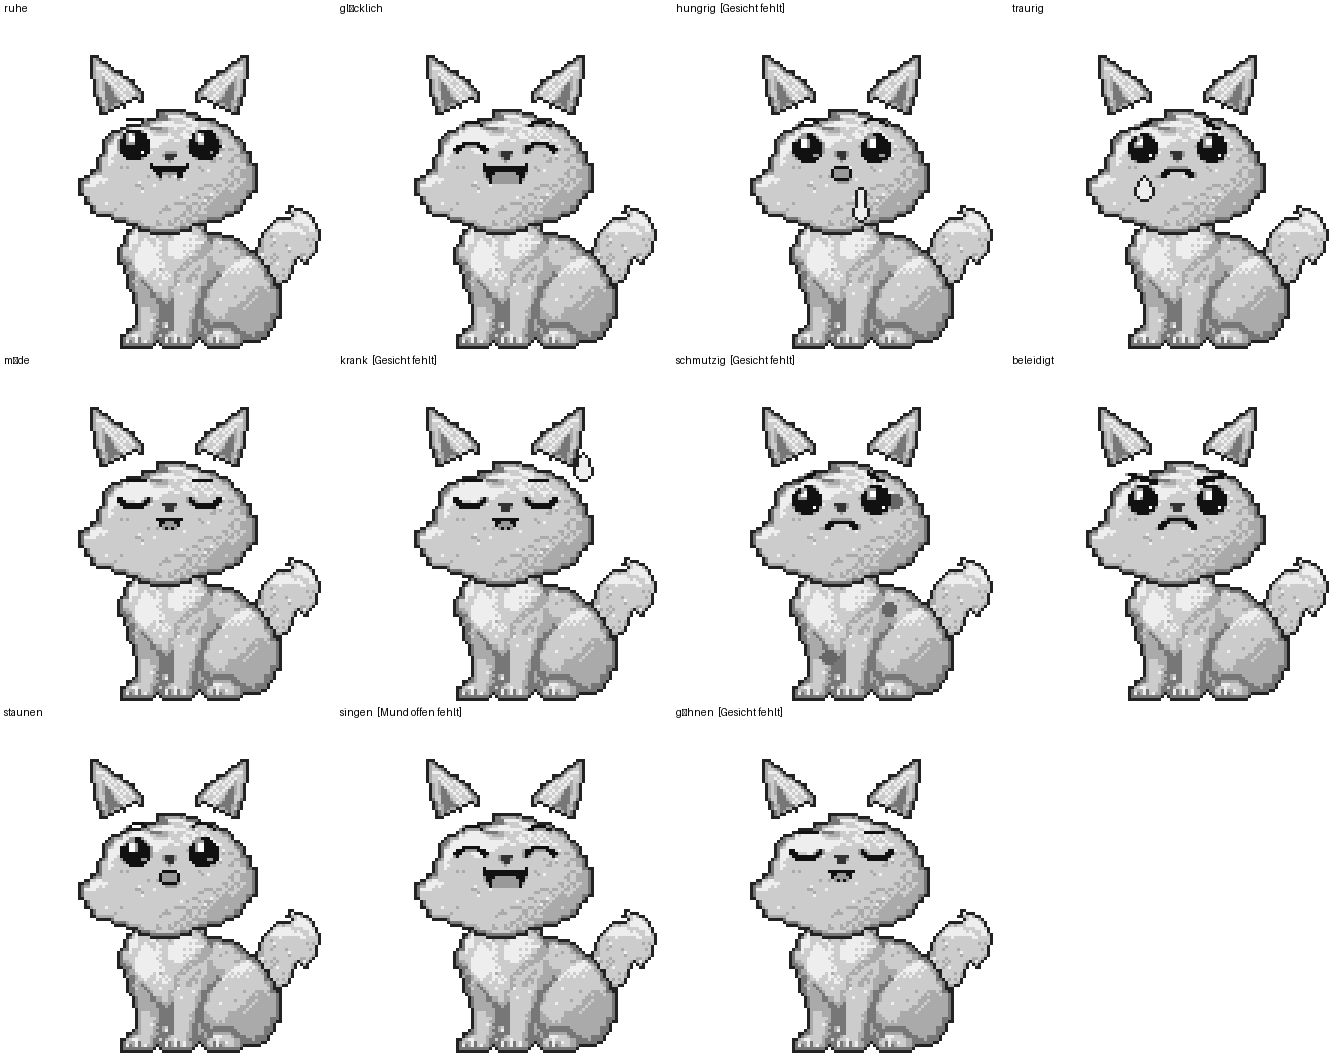
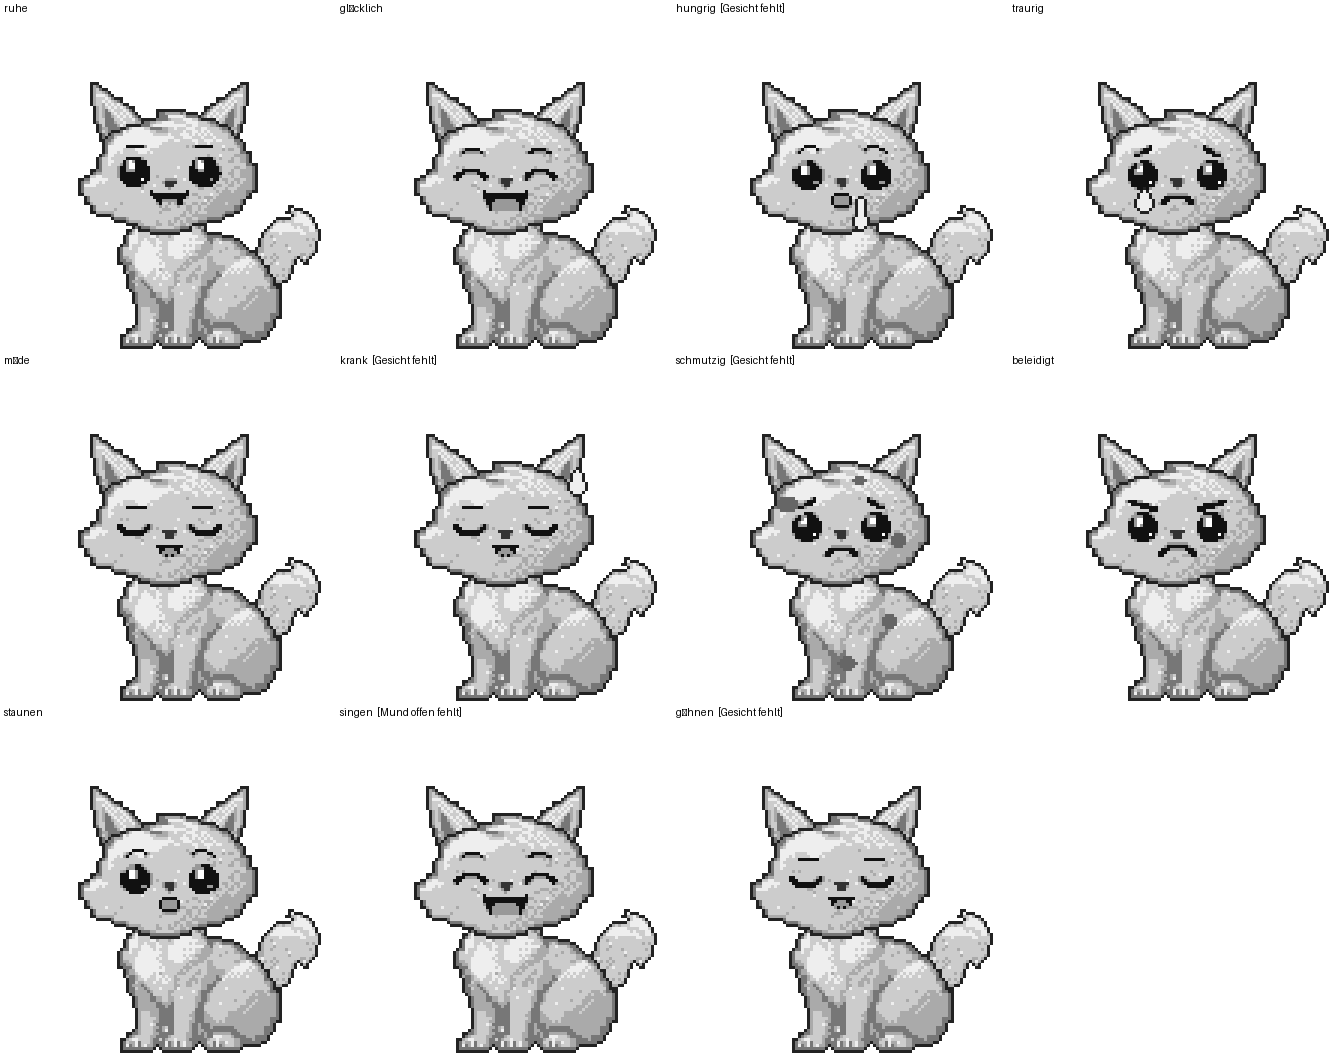
Bausatz: Gefuehle auf aktuelle Anordnung, Schablonen und Prompt fuer kleine Aufsaetze
Claude-Session: https://claude.ai/code/session_01X43J6dzQtUUHUsjwp3UbdM

diff --git a/entwuerfe/bausatz-test/formen.py b/entwuerfe/bausatz-test/formen.py
@@ -24,7 +24,7 @@ def datei(art, form, bevorzugt=None):
 def raster(p): return np.array(Image.open(p).convert('RGB'))[::Z, ::Z, 0]
 
 def baue_form(koerper='sitzend', kopf='3-4', ohren='spitz', schwanz='buschig', gesicht='freundlich',
-              fell=204, muster=None, kopf_ueber=None, merkmale=()):
+              fell=204, muster=None, kopf_ueber=None, merkmale=(), aufsaetze=()):
     kf, hf = L.KOERPER_FORMEN[koerper], L.KOPF_FORMEN[kopf]
     khx, khy = hf['hals']
     if kopf_ueber is None:
@@ -111,11 +111,34 @@ def baue_form(koerper='sitzend', kopf='3-4', ohren='spitz', schwanz='buschig', g
         m, d = muster_maske(muster)
         ok = m & c.a & (c.g >= 85) & (c.g < 250)
         c.g[ok] = np.clip(np.round((c.g[ok] + d) / 17) * 17, 0, 255)
+    geo = geometrie(koerper, kopf, kopf_ueber)
+    mx, my = geo['mx'], geo['my']
+    ohr_r = (kx + hf['ohr_r'][0] - khx, ky + hf['ohr_r'][1] - khy)
+    def aufsatz(name, ziel, spiegeln=False, rl=None):
+        t = lade_teil('aufsatz', name)
+        if t is not None: c.teil(t[0], t[1], ziel, rl or {34: 34, 119: 119, 170: 170, 204: 204, 238: 238}, spiegeln=spiegeln)
+    if 'augenmaske' in aufsaetze: aufsatz('augenmaske', (mx, my - 4))
     if gesicht:
         t = lade_teil('gesicht', gesicht)
         if t is not None:
             c.teil(t[0], t[1], (kx + hf['gesicht'][0] - khx, ky + hf['gesicht'][1] - khy), {34: 17, 119: 51, 170: 102, 204: 153, 238: 255})
+    if 'backentasche' in aufsaetze:
+        aufsatz('backentasche', (mx - 17, my + 7), rl=r)
+        aufsatz('backentasche', (W - 1 - (mx + 17), my + 7), spiegeln=True, rl=r)
+    if 'backenblitz' in aufsaetze:
+        aufsatz('backenblitz', (mx - 17, my + 6)); aufsatz('backenblitz', (W - 1 - (mx + 17), my + 6), spiegeln=True)
+    if 'halsband' in aufsaetze: aufsatz('halsband', (kx - 2, ky + 3))
+    if 'gloeckchen' in aufsaetze: aufsatz('gloeckchen', (kx - 4, ky + 5))
+    if 'schleife' in aufsaetze: aufsatz('schleife', (ohr_r[0] - 2, ohr_r[1] + 1))
     return c
+
+def geometrie(koerper='sitzend', kopf='3-4', kopf_ueber=None):
+    """Wichtige Punkte auf der Leinwand: Kopf-Hals (kx, ky) und Gesichtsmitte (mx, my)."""
+    kf, hf = L.KOERPER_FORMEN[koerper], L.KOPF_FORMEN[kopf]
+    if kopf_ueber is None: kopf_ueber = KOPF_UEBER_STANDARD - KOPF_TIEFER.get(kopf, 0)
+    zy = BODEN - (kf['groesse'][1] - 1) + kf['hals'][1]
+    kx, ky = 56, zy - kopf_ueber
+    return dict(kx=kx, ky=ky, mx=kx + hf['gesicht'][0] - hf['hals'][0], my=ky + hf['gesicht'][1] - hf['hals'][1])
 
 KOERPER = ['sitzend', 'rundlich', 'schlank', 'kraeftig']
 KOEPFE = ['3-4', 'klein-rund', 'breit']

diff --git a/entwuerfe/bausatz-test/emotionen3.py b/entwuerfe/bausatz-test/emotionen3.py
@@ -5,7 +5,8 @@ Aufruf: python3 emotionen3.py -> pruefbogen-emotionen-basis3.png
 import numpy as np
 from PIL import Image, ImageDraw
 import basis3
-from basis3 import W, H, HIER, baue
+from basis3 import W, H, HIER
+from formen import baue_form, geometrie
 
 Y, X = np.mgrid[0:H, 0:W]
 def ell(cx, cy, rx, ry): return ((X - cx) / rx) ** 2 + ((Y - cy) / ry) ** 2 <= 1
@@ -21,18 +22,20 @@ def tropfen(c, cx, cy, h=6):
     t |= ell(cx, cy, 2.6, 2.6)
     zeichne(c, t)
 
-def schweiss(c): tropfen(c, 82, 34)
-def traene(c): tropfen(c, 45, 58, 5)
-def sabber(c):
-    m = (X >= 62) & (X <= 63) & (Y >= 58) & (Y <= 64) | ell(62.5, 65, 2.2, 2.6)
+def schweiss(c, g): tropfen(c, g['mx'] + 24, g['my'] - 16)
+def traene(c, g): tropfen(c, g['mx'] - 11, g['my'] + 7, 5)
+def sabber(c, g):
+    x0, y0 = g['mx'] + 6, g['my'] + 6
+    m = (X >= x0) & (X <= x0 + 1) & (Y >= y0) & (Y <= y0 + 6) | ell(x0 + 0.5, y0 + 7, 2.2, 2.6)
     zeichne(c, m)
-def schmutz(c):
+def schmutz(c, g):
     m = np.zeros((H, W), bool)
-    for cx, cy, r in [(40, 36, 3.4), (74, 44, 2.6), (60, 28, 2.2), (30, 90, 3.6), (52, 96, 3), (72, 80, 2.6)]: m |= ell(cx, cy, r, r * .85)
+    for dx, dy, r in [(-18, -10, 3.4), (19, 2, 2.6), (6, -18, 2.2)]: m |= ell(g['mx'] + dx, g['my'] + dy, r, r * .85)
+    for cx, cy, r in [(40, 90, 3.6), (58, 98, 3), (72, 84, 2.6)]: m |= ell(cx, cy, r, r * .85)
     m &= c.a & (c.g > 100)
     setze(c, m, 102)
-def zzz(c):
-    for x0, y0, s in [(86, 30, 5), (90, 22, 6), (94, 12, 7)]:
+def zzz(c, g):
+    for x0, y0, s in [(g['mx'] + 28, g['my'] - 22, 5), (g['mx'] + 33, g['my'] - 30, 6)]:
         for (ax, ay, bx, by) in [(x0, y0, x0 + s, y0), (x0 + s, y0, x0, y0 + s), (x0, y0 + s, x0 + s, y0 + s)]:
             n = max(abs(bx - ax), abs(by - ay)) + 1
             for t in np.linspace(0, 1, n):
@@ -50,8 +53,9 @@ if __name__ == '__main__':
     rows = (len(EMOTIONEN) + cols - 1) // cols
     out = Image.new('RGB', (cols * W * z, rows * (H * z + 16)), 'white'); d = ImageDraw.Draw(out)
     for k, (n, g, eff, hin) in enumerate(EMOTIONEN):
-        c = baue(2, 2, ohren='spitz', schwanz='buschig', gesicht=g)
-        for e in eff: e(c)
+        geo = geometrie('sitzend', '3-4')
+        c = baue_form('sitzend', '3-4', ohren='spitz', schwanz='buschig', gesicht=g)
+        for e in eff: e(c, geo)
         x, y = (k % cols) * W * z, (k // cols) * (H * z + 16)
         d.text((x + 4, y + 2), n + (f'  [{hin}]' if hin else ''), fill='black')
         out.paste(c.bild(255, z), (x, y + 16))

diff --git a/entwuerfe/bausatz-test/schablonen_basis.py b/entwuerfe/bausatz-test/schablonen_basis.py
@@ -62,4 +62,15 @@ schablone('schablone-merkmal-stacheln.png', 48, 32, [((6, 26), 'Rücken', ROT)],
 schablone('schablone-merkmal-panzer.png', 56, 44, [((6, 40), 'Rücken', ROT)], 'Panzer 56x44',
           [('linie', [(0, 40), (28, 42), (55, 43)], 'Unterkante liegt auf dem Rücken')])
 schablone('schablone-merkmal-fluegel.png', 56, 56, [((6, 50), 'Schulter', ROT)], 'Fluegel 56x56')
+# Kleine Aufsätze (27.11.)
+AUFSAETZE = {  # Name: (Raster, Ansatz, Beschriftung, Hilfsform)
+    'schleife':     ((24, 20), (12, 16), 'Schleife 24x20', None),
+    'gloeckchen':   ((16, 20), (8, 2),   'Gloeckchen 16x20', None),
+    'halsband':     ((44, 14), (22, 3),  'Halsband 44x14', None),
+    'backentasche': ((24, 24), (12, 12), 'Backentasche 24x24 (linke Wange)', None),
+    'augenmaske':   ((52, 16), (26, 8),  'Augenmaske 52x16', [('linie', [(4, 8), (48, 8)], 'Augenlinie')]),
+    'backenblitz':  ((12, 14), (6, 7),   'Backenblitz 12x14 (linke Wange)', None),
+}
+for n, ((gw, gh), a, text, fuehr) in AUFSAETZE.items():
+    schablone(f'schablone-aufsatz-{n}.png', gw, gh, [(a, 'Ansatz', ROT)], text, fuehr)
 print('fertig')

diff --git a/entwuerfe/bausatz-test/basis3_layout.py b/entwuerfe/bausatz-test/basis3_layout.py
@@ -58,3 +58,19 @@ MERKMALE = {
     'panzer':   dict(art='ruecken_vorn', groesse=(56, 44), anker=(6, 40)),
     'fluegel':  dict(art='ruecken_hinten', groesse=(56, 56), anker=(6, 50)),
 }
+
+# Kleine Aufsätze: Lage relativ zum Kopf (kx, ky = Kopf-Hals; mx, my = Gesichtsmitte; ohr_r = rechter Ohr-Ansatz).
+#   schleife:     rechtes Ohr, Ansatz = ohr_r + (-2, 1), vor dem Kopf
+#   gloeckchen:   unter dem Kinn, (kx - 4, ky + 5)
+#   halsband:     um den Hals, (kx - 2, ky + 3), nach dem Kopf
+#   backentasche: Wange, links (mx - 17, my + 7), rechts gespiegelt, vor dem Gesicht
+#   augenmaske:   über den Augen, (mx, my - 4), VOR dem Gesicht
+#   backenblitz:  Wange, links (mx - 17, my + 6), rechts gespiegelt
+AUFSAETZE = {
+    'schleife':     dict(groesse=(24, 20), anker=(12, 16)),
+    'gloeckchen':   dict(groesse=(16, 20), anker=(8, 2)),
+    'halsband':     dict(groesse=(44, 14), anker=(22, 3)),
+    'backentasche': dict(groesse=(24, 24), anker=(12, 12)),
+    'augenmaske':   dict(groesse=(52, 16), anker=(26, 8)),
+    'backenblitz':  dict(groesse=(12, 14), anker=(6, 7)),
+}

diff --git a/entwuerfe/bausatz-test/ki_teile.py b/entwuerfe/bausatz-test/ki_teile.py
@@ -31,6 +31,13 @@ SCHABLONEN = {
     'merkmal-fluegel': ((56, 56), (6, 50)),
     'merkmal-fluegel-fee': ((56, 56), (6, 50)),
     'merkmal-fluegel-drache': ((56, 56), (6, 50)),
+    'aufsatz-schleife': ((24, 20), (12, 16)),
+    'aufsatz-gloeckchen': ((16, 20), (8, 2)),
+    'aufsatz-halsband': ((44, 14), (22, 3)),
+    'aufsatz-backentasche': ((24, 24), (12, 12)),
+    'aufsatz-augenmaske': ((52, 16), (26, 8)),
+    'aufsatz-backenblitz': ((12, 14), (6, 7)),
+    'aufsatz': ((24, 20), (12, 16)),
     'kopf': ((60, 44), (30, 40)),
 }
 
@@ -53,7 +60,7 @@ def lade_teil(art, name):
     if not np.all(pixel[..., :3] == erwartet[..., None]):
         raise ValueError(f'{datei.name}: Farbabweichung oder unsauberes 8×8-Raster')
     # Augen, Brauen, Nase und Mund sind bewusst voneinander getrennt.
-    if art in ('gesicht', 'merkmal'):
+    if art in ('gesicht', 'merkmal', 'aufsatz'):
         if np.all(raster == 255):
             raise ValueError(f'{datei.name}: Gesicht ist leer')
         # Einzelne Streupixel (ohne Nachbarn, auch diagonal) entfernen.

diff --git a/entwuerfe/bausatz-test/PROMPT-ki-aufsaetze.md b/entwuerfe/bausatz-test/PROMPT-ki-aufsaetze.md
@@ -1,0 +1,71 @@
+# Prompt für die Bild-KI: kleine Aufsätze (27. November 2026)
+
+Sechs kleine Teile, die auf Kopf oder Hals sitzen: **Schleife** (Mia), **Glöckchen** (Glöckchen), **Halsband** (Klecksi), **Backentaschen** (Mampf), **Augenmaske** (Groschen), **Backenblitze** (Funke). Dazu optional ein **geringelter Schwanz** (Groschen). Gleiche Methode wie [PROMPT-ki-teile.md](PROMPT-ki-teile.md): ein Teil allein auf der Schablone, feste Grauwerte, Skript setzt zusammen.
+
+## Wo sie sitzen
+| Aufsatz | Lage | Ansatz im Teil | Wohin | Ebene |
+|---|---|---|---|---|
+| Schleife | auf dem Kopf am rechten Ohr | Knoten unten Mitte (12, 16) | rechtes Ohr, leicht innen | vor dem Kopf |
+| Glöckchen | an einem Band unter dem Kinn | oben Mitte (8, 2) | unter dem Kinn, etwas links | vor dem Körper |
+| Halsband | schmales Band um den Hals mit Marke | oben Mitte (22, 3) | unter dem Kinn | nach dem Kopf |
+| Backentasche | dicke Backe, **linke** Seite (rechte wird gespiegelt) | Mitte (12, 12) | Wange | vor dem Kopf, hinter dem Gesicht |
+| Augenmaske | dunkle Fläche über beiden Augen | Mitte (26, 8) | über den Augen | **vor** dem Kopf, **hinter** dem Gesicht (die Augen liegen darüber) |
+| Backenblitz | kleiner Blitz, **linke** Wange (rechter wird gespiegelt) | Mitte (6, 7) | Wange | nach dem Gesicht |
+
+Die Figur schaut leicht nach links (3/4).
+
+## Maße
+| Teil | Datei | Raster | Ausgabe (8-fach) | Schablone |
+|---|---|---|---|---|
+| Schleife | `aufsatz-schleife-<nr>.png` | 24 × 20 | 192 × 160 | `ki/schablone-aufsatz-schleife.png` |
+| Glöckchen | `aufsatz-gloeckchen-<nr>.png` | 16 × 20 | 128 × 160 | `…-gloeckchen.png` |
+| Halsband | `aufsatz-halsband-<nr>.png` | 44 × 14 | 352 × 112 | `…-halsband.png` |
+| Backentasche | `aufsatz-backentasche-<nr>.png` | 24 × 24 | 192 × 192 | `…-backentasche.png` |
+| Augenmaske | `aufsatz-augenmaske-<nr>.png` | 52 × 16 | 416 × 128 | `…-augenmaske.png` (blasse Linie = Augenhöhe, nicht zeichnen) |
+| Backenblitz | `aufsatz-backenblitz-<nr>.png` | 12 × 14 | 96 × 112 | `…-backenblitz.png` |
+| Schwanz geringelt | `schwanz-geringelt-<nr>.png` | 32 × 40 | 256 × 320 | `ki/schablone-schwanz.png` |
+
+## Grauwerte (Rollen)
+34 Umriss (1 Pixel), 119 dunkel, 170 Schatten, 204 Fell/Mittelton, 238 hell, 255 Hintergrund. Nur diese Werte, Dithering, keine Halbtöne.
+- Schleife: Stoff 238, Schatten 170, Knoten 119.
+- Glöckchen: Glocke 238, Schatten 170, Schlitz 34, kleine Öse oben mit Band 119.
+- Halsband: Band 119, Schnalle und Marke 238, Umriss 34.
+- Backentasche: wie Fell (204 mit 170-Schatten, 238-Licht), weil sie mit dem Fellton umgefärbt wird.
+- Augenmaske: Fläche 119 mit weicheren Rändern in 170.
+- Backenblitz: Blitz 34 (ein dunkles, deutlich lesbares Zickzack).
+- Schwanz geringelt: Fell 204, 3–4 dunkle Ringe 119, Spitze 238.
+
+## Prompt (zum Kopieren, Englisch)
+```text
+Create ONE standalone pixel-art game sprite part on a pure white background: [TEIL].
+It must fit exactly on the attached template (8x8 screen pixels per sprite pixel; the red cross marks the attachment point; pale blue lines are only hints and must NOT be drawn). The canvas size is [AUSGABEGROESSE] pixels. Do not draw the grid, the cross, the hints or any text.
+
+Style: match the attached style image in line weight and shading. The character faces slightly to the viewer's LEFT.
+- Strict pixel art on the grid, every sprite pixel a flat 8x8 square, no anti-aliasing, no stray pixels, no half-transparency.
+- Dark outline exactly one sprite pixel wide, gray 34.
+- ONLY these gray values: 34, 119, 170, 204, 238, 255 (background). Checkerboard dithering for shading.
+- Cute, clean, readable at small size. Part alone, no other body parts.
+```
+
+### Einzusetzen
+| Teil | [TEIL] | [AUSGABEGROESSE] |
+|---|---|---|
+| Schleife | a cute bow (ribbon with two loops and a small knot in the middle), seen from the front, light cloth gray 238, knot 119; the knot center sits at the red cross | 192 x 160 |
+| Glöckchen | a small round bell (jingle bell) with a slit and a tiny loop at the top, hanging down from the red cross | 128 x 160 |
+| Halsband | a narrow collar band lying horizontally, slightly curved like it wraps around a neck, dark gray 119, with a small round tag or buckle in the middle (light gray 238); red cross at the top center | 352 x 112 |
+| Backentasche | the LEFT puffy cheek pouch of a hamster: a big round plump cheek bulge, fur gray 204 with soft shading and a few fur dots, round outline; center at the red cross | 192 x 192 |
+| Augenmaske | a raccoon-style dark eye mask: one wide dark band (gray 119) that covers both eye areas, with soft slightly pointed ends going outward and down; the area in the middle between the eyes is connected; center at the red cross | 416 x 128 |
+| Backenblitz | a small lightning-bolt mark for the LEFT cheek, dark gray 34, bold zigzag, 3 sprite pixels thick, readable at small size; center at the red cross | 96 x 112 |
+| Schwanz geringelt (Groschen) | a bushy raccoon tail with 3 to 4 dark rings (gray 119) across it and a light tip (238), seen from the side, rising up to the right, attachment on the left | 256 x 320 |
+
+Je Teil **3 Varianten** erzeugen, die beste behalten.
+
+## Ablage
+`ki/teile/aufsatz-<name>-<nr>.png` (zum Beispiel `aufsatz-schleife-1.png`), und `ki/teile/schwanz-geringelt-<nr>.png`. Backentasche und Backenblitz nur die **linke** Seite, ich spiegele die rechte.
+
+## Was danach passiert
+`formen.py` setzt die Aufsätze über den Parameter `aufsaetze` ein (Lage: `basis3_layout.py`, `AUFSAETZE`). Mit Platzhaltern habe ich die Lage schon geprüft; mit den echten Bildern prüfe ich sie noch einmal und passe die Position an. Dann kommt ein Prüfbogen mit Mia, Glöckchen, Klecksi, Mampf, Groschen und Funke.
+
+## Grenzen
+- Die Aufsätze sind für die **sitzende** Haltung und den 3/4-Kopf eingestellt. Bei Köpfen mit anderer Größe (klein-rund, breit) sitzen sie je nach Kopf etwas anders; das stelle ich über die Position ein.
+- Backentaschen und Augenmaske überdecken Teile des Gesichts. Sie liegen deshalb **hinter** dem Gesicht (die Augen sind darüber).

diff --git a/entwuerfe/bausatz-test/README.md b/entwuerfe/bausatz-test/README.md
@@ -48,3 +48,6 @@ Die Halskrause liegt jetzt **hinter dem Kopf** und 3 Pixel tiefer (`KRUSE_TIEFER
 
 ## Halskrause entfernt (27. November 2026)
 Die Halskrause ist komplett raus (`ki/teile/kruse-flauschig-*`, Schablone und alle Einträge). Der Kopf sitzt direkt am Körperhals, 5 Pixel unter dem Körper-Hals (`KOPF_UEBER_STANDARD = -5` in `formen.py`); das Kinn liegt über den Schultern. Die Parameter `kruse`, `kranz`, `kruse_tiefer` und `kruse_hinten` gibt es nicht mehr. Der Kranzton wird damit nicht mehr verwendet. Die Pose- und Gefühle-Bögen sind mit angepasst.
+
+## Gefühle und kleine Aufsätze (27. November 2026)
+`emotionen3.py` nutzt jetzt dieselbe Zusammensetzung wie `formen.py` (vorher schwebten die Ohren, weil der Bogen noch die alte Anordnung hatte). Die Effekte (Träne, Sabber, Schweiß, Schmutz, Zzz) liegen relativ zur Gesichtsmitte (`formen.geometrie`). Für die kleinen Aufsätze gibt es Schablonen (`ki/schablone-aufsatz-*.png`), den Prompt `PROMPT-ki-aufsaetze.md` und den Parameter `aufsaetze` in `formen.baue_form`. Die Lage ist mit Platzhaltern geprüft, nicht mit echten Bildern.
